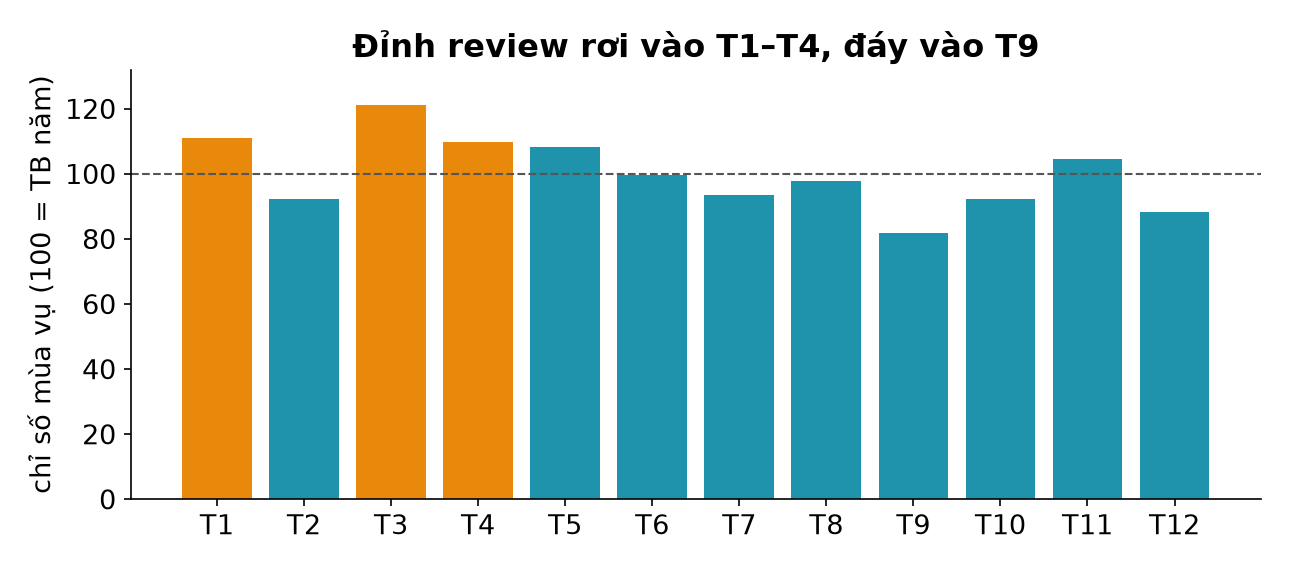
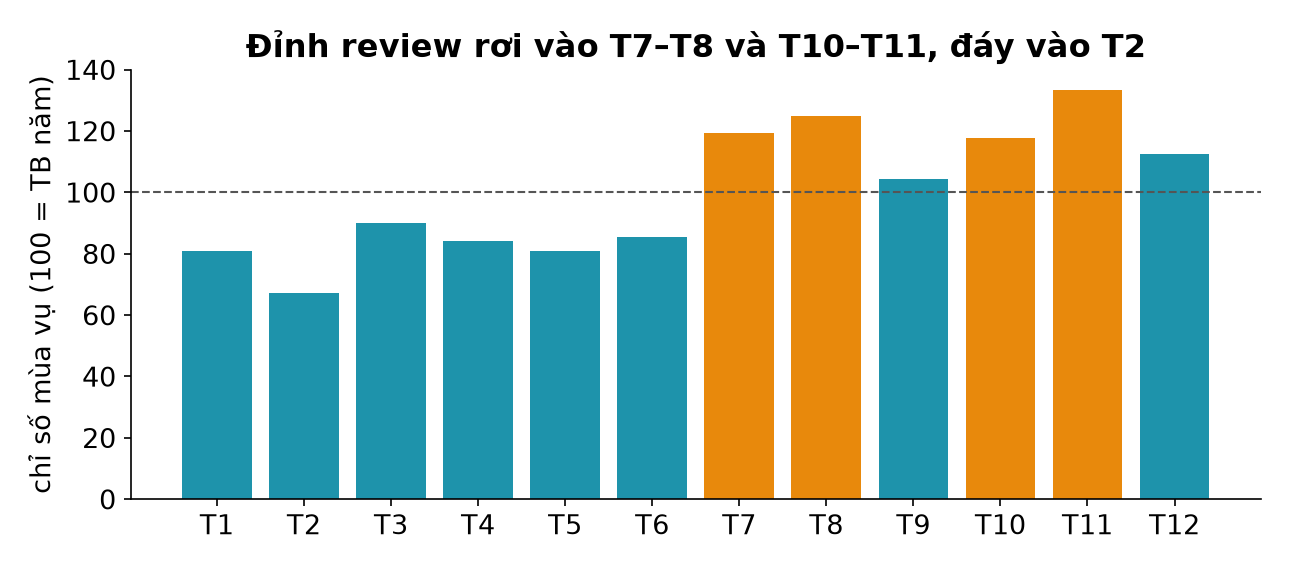
2627-1: đính chính mùa vụ buổi 8 (QUESTIONS #2, GV duyệt) — chỉ số tính trên năm trọn 2022–2025: đỉnh T7–T8 & T10–T11, đáy T2; sửa script+hình+2 slide+4 cell notebook; deck 0/26 tràn, notebook chạy sạch

diff --git a/2627-1/lecture-08-du-lieu-thoi-gian.html b/2627-1/lecture-08-du-lieu-thoi-gian.html
@@ -280,24 +280,24 @@ yoy.loc["2026-06-30"].round(1)
         <section>
           <h2>Nhịp mùa vụ — đo, đừng đoán</h2>
           <figure class="fig">
-            <img src="img/lecture-08/mua-vu.png" alt="Chỉ số mùa vụ theo tháng" style="width:88%">
-            <figcaption class="caption">Chỉ số mùa vụ (100 = trung bình): đỉnh T1–T4, đáy T9 —
-              tính từ 2022 đến nay, đã loại kỳ cụt.</figcaption>
+            <img src="img/lecture-08/mua-vu.png?v=2" alt="Chỉ số mùa vụ theo tháng" style="width:88%">
+            <figcaption class="caption">Chỉ số mùa vụ (100 = trung bình, tính trên các năm trọn
+              2022–2025): đỉnh T7–T8 và T10–T11, đáy T2.</figcaption>
           </figure>
         </section>
 
         <section>
-          <h2>Vì sao đỉnh không nằm gọn ở "hè" T12–T2?</h2>
+          <h2>Bài học kép từ một lần đo lại</h2>
           <ul>
-            <li><strong>Review trễ hơn chuyến đi</strong>: khách ở tháng 1–2, viết review cuối kỳ nghỉ
-              hoặc sau đó — đỉnh dạt sang T3.</li>
-            <li><strong>T2 ngắn hơn 10%</strong> so với T1 (28 vs 31 ngày) — đếm theo tháng luôn
-              thiên vị tháng dài.</li>
+            <li><strong>Mùa vụ chỉ đo trên các năm trọn.</strong> Bản nháp đầu gộp cả nửa đầu 2026
+              (chỉ có T1–T6) — các tháng đầu năm bị thổi phồng thành "đỉnh T1–T4" ảo.</li>
+            <li><strong>Đô thị có mùa ngược điểm nghỉ dưỡng:</strong> đỉnh mùa đông T7–T8
+              (trượt tuyết, nghỉ đông) và xuân T10–T11; đáy T2 — giữa hè, dân thành phố đi nghỉ nơi khác.</li>
           </ul>
           <div class="key-box">
             <span class="box-title">Quan trọng</span>
-            Hai bài học một hình: (1) ngày ghi nhận ≠ ngày sự kiện; (2) độ dài kỳ ảnh hưởng
-            phép đếm. Trước khi diễn giải mùa vụ — kiểm tra cả hai.
+            "Đo, đừng đoán" chưa đủ — phải <strong>đo cho cân</strong>: mỗi tháng góp mặt
+            đủ số năm như nhau.
           </div>
         </section>
 
@@ -325,7 +325,7 @@ yoy.loc["2026-06-30"].round(1)
               <code>rolling</code> làm mượt.</li>
             <li>So sánh: <code>pct_change</code> kỳ trước, <code>shift(12)</code> cùng kỳ —
               dữ liệu mùa vụ dùng YoY.</li>
-            <li>Ba bẫy: kỳ cụt, ngày ghi nhận ≠ ngày sự kiện, tháng dài ngắn khác nhau.</li>
+            <li>Ba bẫy: kỳ cụt, mùa vụ đo trên năm không trọn, số review chỉ là proxy.</li>
           </ul>
         </section>
 

diff --git a/2627-1/img/lecture-08/scripts/gen_figures.py b/2627-1/img/lecture-08/scripts/gen_figures.py
@@ -38,18 +38,21 @@ plt.close(fig)
 print("reviews-theo-thang.png done")
 
 # ------------------------------------------------ seasonality profile
-thang_tb = (rv.loc[rv["date"] >= "2022-01-01"]
-              .groupby(rv["date"].dt.month).size())
+# CHỈ dùng các năm trọn vẹn (2022–2025): nếu gộp cả nửa đầu 2026 — nửa năm lớn nhất,
+# chỉ góp mặt cho T1–T6 — các tháng đầu năm bị thổi phồng thành "đỉnh T1–T4" ảo
+# (lỗi của bản nháp đầu, đính chính 06/07/2026 — xem DECISIONS.md).
+tron_nam = rv.loc[(rv["date"] >= "2022-01-01") & (rv["date"] <= "2025-12-31")]
+thang_tb = tron_nam.groupby(tron_nam["date"].dt.month).size()
 thang_tb = thang_tb / thang_tb.mean() * 100
 
 fig, ax = plt.subplots(figsize=(8.6, 3.8))
-colors = [ORANGE if m in (1, 3, 4) else BLUE for m in thang_tb.index]
+colors = [ORANGE if m in (7, 8, 10, 11) else BLUE for m in thang_tb.index]
 ax.bar(thang_tb.index, thang_tb.values, color=colors)
 ax.axhline(100, color="#555", lw=1, ls="--")
 ax.set_xticks(range(1, 13), [f"T{m}" for m in range(1, 13)])
 ax.set_ylabel("chỉ số mùa vụ (100 = TB năm)")
-ax.set_ylim(0, 132)
-ax.set_title("Đỉnh review rơi vào T1–T4, đáy vào T9", fontweight="bold")
+ax.set_ylim(0, 140)
+ax.set_title("Đỉnh review rơi vào T7–T8 và T10–T11, đáy vào T2", fontweight="bold")
 ax.spines[["top", "right"]].set_visible(False)
 fig.tight_layout()
 fig.savefig(OUT / "mua-vu.png", dpi=150)

diff --git a/2627-1/DECISIONS.md b/2627-1/DECISIONS.md
@@ -14,7 +14,7 @@
 - **BTL — trọng số rubric**: A pipeline 30% / B dữ liệu (QA+KPI+LLM) 25% / C trực quan hoá & insight 25% / D nhóm & minh bạch AI 20%; thưởng tối đa +10%.
 - **BTL — held-out**: chấm bằng snapshot phát hành trong kỳ (~09–12/2026) hoặc bản monthly không nằm trong danh sách bắt buộc; ghi rõ trong đề để nhóm thiết kế pipeline chịu được schema drift.
 - **BTL — mốc nộp trung gian**: thêm mốc "bản đề xuất tuần 8" (QA/KPI/LLM dự kiến, GV phản hồi không chấm điểm) — để cứu các nhóm chọn sai hướng sớm.
-- **Dữ liệu thật phát hiện khi soạn bài 8**: cột `host_since` trong snapshot Santiago 06/2026 trống 100% (Inside Airbnb thay bằng `hosts_time_as_*`); học liệu dùng `first_review` cho demo Timedelta. Mùa vụ review Santiago đỉnh T1–T4 (không phải T12–T2) — do review trễ hơn chuyến đi + T2 ngắn; đưa thẳng vào bài giảng làm ví dụ "đo, đừng đoán".
+- **Dữ liệu thật phát hiện khi soạn bài 8**: cột `host_since` trong snapshot Santiago 06/2026 trống 100% (Inside Airbnb thay bằng `hosts_time_as_*`); học liệu dùng `first_review` cho demo Timedelta. Mùa vụ review Santiago: **⚠ đính chính 06/07/2026 (đợt 2, giảng viên duyệt)** — kết luận ban đầu "đỉnh T1–T4 do review trễ + T2 ngắn" là artefact của cửa sổ lệch (chỉ số gộp cả nửa đầu 2026, nửa năm lớn nhất, chỉ góp mặt cho T1–T6); tính trên các năm trọn 2022–2025, mùa vụ thật **đỉnh T7–T8 & T10–T11, đáy T2** (đô thị ngược mùa điểm nghỉ dưỡng). Đã sửa `gen_figures.py` + `mua-vu.png` + 2 slide + notebook buổi 8 — chi tiết: QUESTIONS.md mục 2.
 - **Buổi 14 — phát hiện khi kiểm chứng số liệu**: bảng `reviews` của một snapshot bị right-censoring ở đuôi (T9/2025 "mọc thêm" 21% khi nhìn từ snapshot 06/2026) và lịch sử co giãn vì listing rời sàn mang theo review (T8/2025 giảm 18% giữa 2 snapshot). Kịch bản audit KL3 đổi từ "sai mùa vụ" thành "không kiểm được từ 1 snapshot" — trung thực với dữ liệu và dạy thêm được loại phán quyết thứ ba.
 - **Rà soát render (Playwright, khung 960×700)**: đo scrollHeight/Width từng slide của cả 15 deck — 103 slide tràn do font gốc 40px của theme trắng quá lớn với tiếng Việt. Chỉnh hệ thiết kế trong `lecture-style.css` (font gốc 36px, hộp nhấn/pipeline/bảng gọn hơn) thay vì sửa lẻ từng slide; 6 slide còn lại sửa nội dung (tách checklist buổi 15 thành 2 slide, gọt chữ). Kết quả cuối: **0 slide tràn**, không ảnh hỏng, không lỗi JS.
 

diff --git a/2627-1/QUESTIONS.md b/2627-1/QUESTIONS.md
@@ -2,7 +2,16 @@
 
 > Claude ghi vào đây khi gặp việc vượt thẩm quyền (thay đổi khung buổi, cơ chế chấm, nguồn dữ liệu đáng ngờ...) rồi chuyển sang việc khác, không dừng chờ. Mỗi mục có bối cảnh + phương án đề xuất.
 
-## 2. Deck buổi 8: chỉ số mùa vụ "đỉnh T1–T4, đáy T9" là artefact của cửa sổ dữ liệu lệch — cần sửa nội dung?
+## 2. Deck buổi 8: chỉ số mùa vụ "đỉnh T1–T4, đáy T9" là artefact của cửa sổ dữ liệu lệch ✅ ĐÃ QUYẾT
+
+**Quyết định của giảng viên (06/07/2026):** thực hiện đúng đề xuất. **Đã sửa xong cùng ngày:**
+`gen_figures.py` tính chỉ số trên các năm trọn 2022–2025 và chạy lại `mua-vu.png` (đỉnh T7–T8 &
+T10–T11 tô cam, đáy T2); caption hình + slide giải thích của deck 8 đổi thành **"Bài học kép từ
+một lần đo lại"** (đo mùa vụ phải dùng năm trọn — bản nháp sai được kể thẳng làm ví dụ; đô thị
+ngược mùa điểm nghỉ dưỡng) + cập nhật dòng "ba bẫy" ở Tổng kết; 4 cell tương ứng trong
+`notebooks/lecture-08.ipynb` (code lọc năm trọn, diễn giải, thử thách Rio, tóm tắt); đính chính
+mục mùa vụ đợt 1 trong DECISIONS.md. Sau sửa: deck 8 đo lại **0/26 slide tràn**, notebook 8
+chạy end-to-end sạch; giáo án TA tuần 3 & 8 đã cập nhật theo.
 
 **Phát hiện (06/07/2026, trong đợt 2 khi tính số liệu cho lab tuần 8):** hình `img/lecture-08/mua-vu.png` và slide "Nhịp mùa vụ — đo, đừng đoán" (+ slide giải thích "Vì sao đỉnh không nằm gọn ở hè T12–T2") dựa trên chỉ số tính từ cửa sổ **2022-01 → 2026-06**. Vì nửa đầu 2026 là nửa năm lớn nhất lịch sử và **chỉ góp mặt cho T1–T6**, các tháng đầu năm bị thổi phồng → "đỉnh T1–T4" (script: `gen_figures.py`, phần seasonality profile).
 
